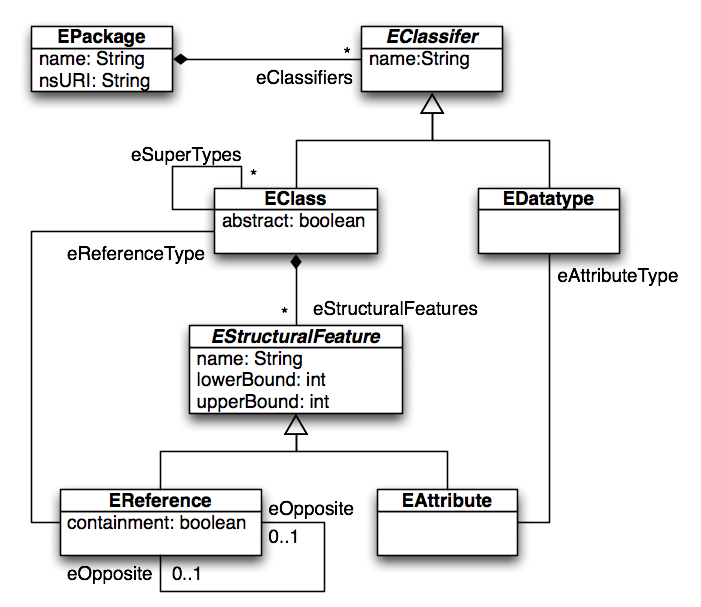
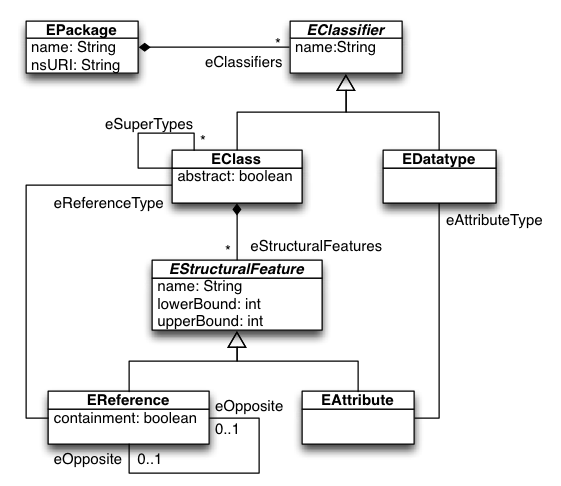
[docs] Fixing all instances of the typo image

diff --git a/xtext.website.generator/website/documentation.html b/xtext.website.generator/website/documentation.html
@@ -10239,7 +10239,7 @@ var anotherString = 'It is possible to embed ${aString} into
 							<p>
 								</p>
 								<div class="thumbnail">
-									<img src="images/ecore.png" alt="Ecore concepts" width="701" height="607">
+									<img src="images/ecore.png" alt="Ecore concepts" width="561" height="486">
 								</div>
 								<p>
 							</p>
